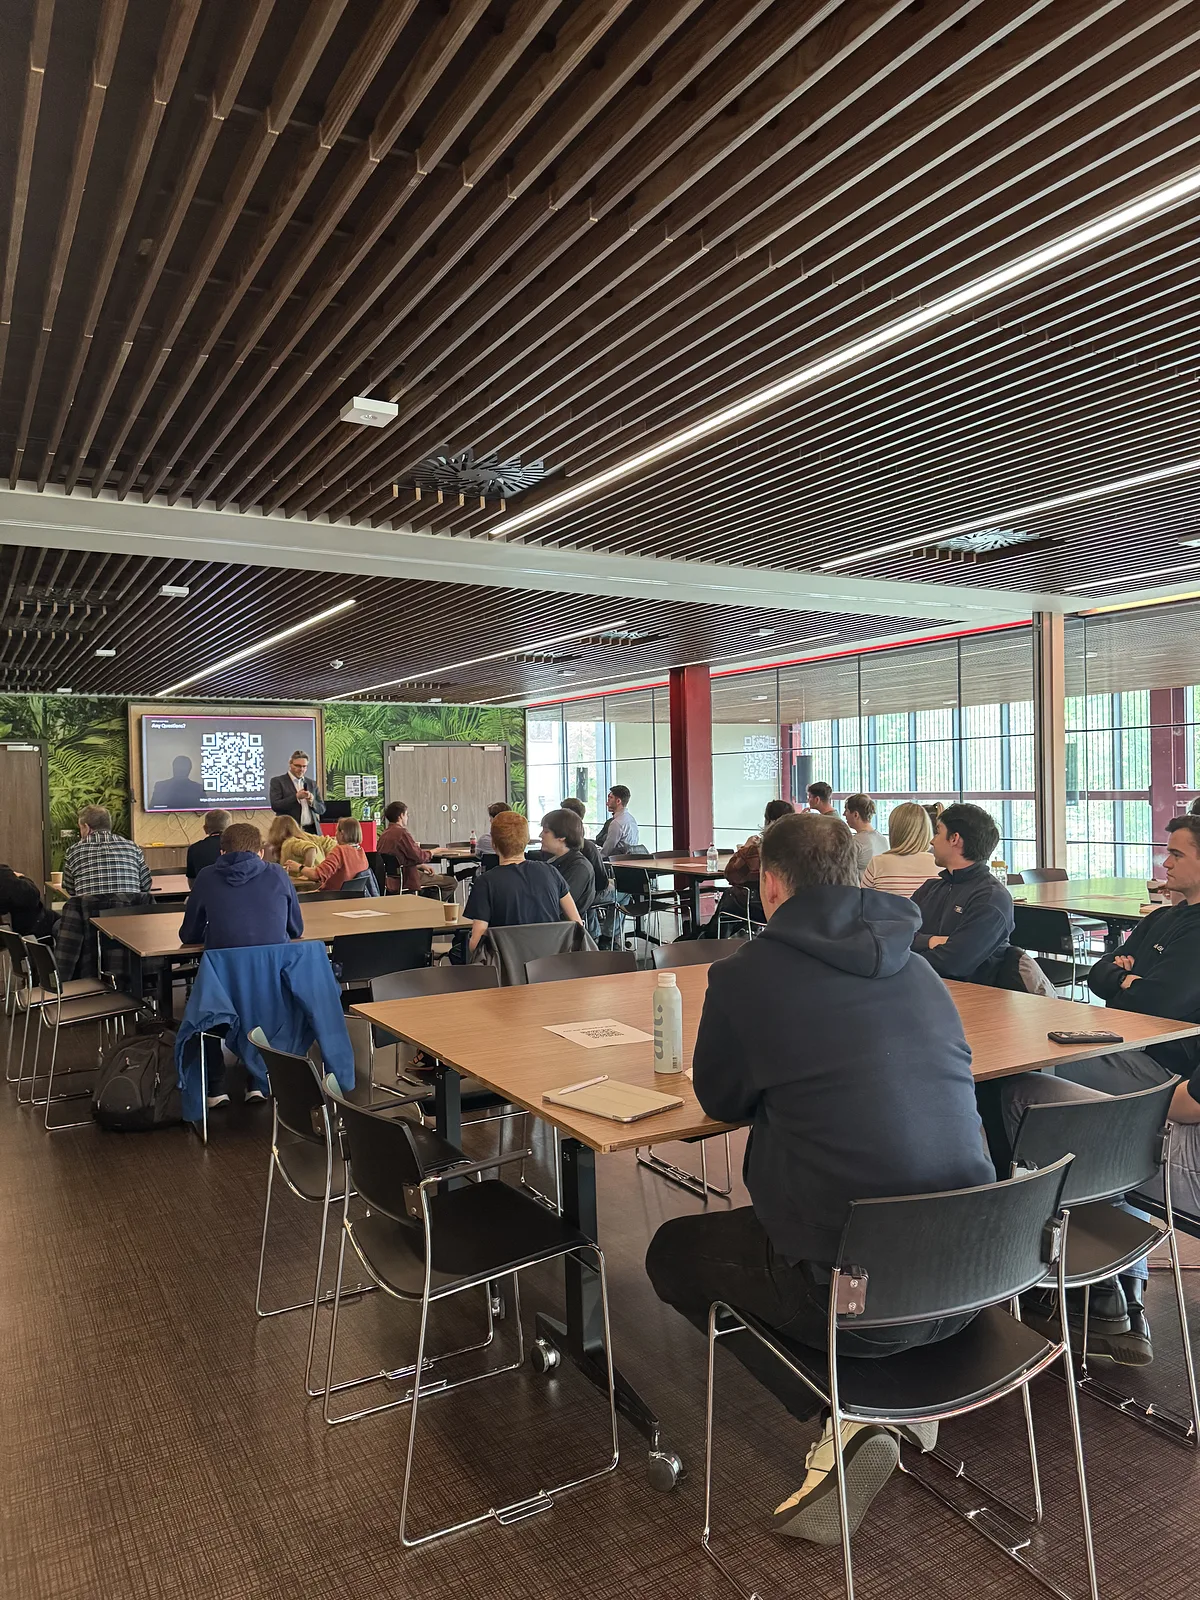
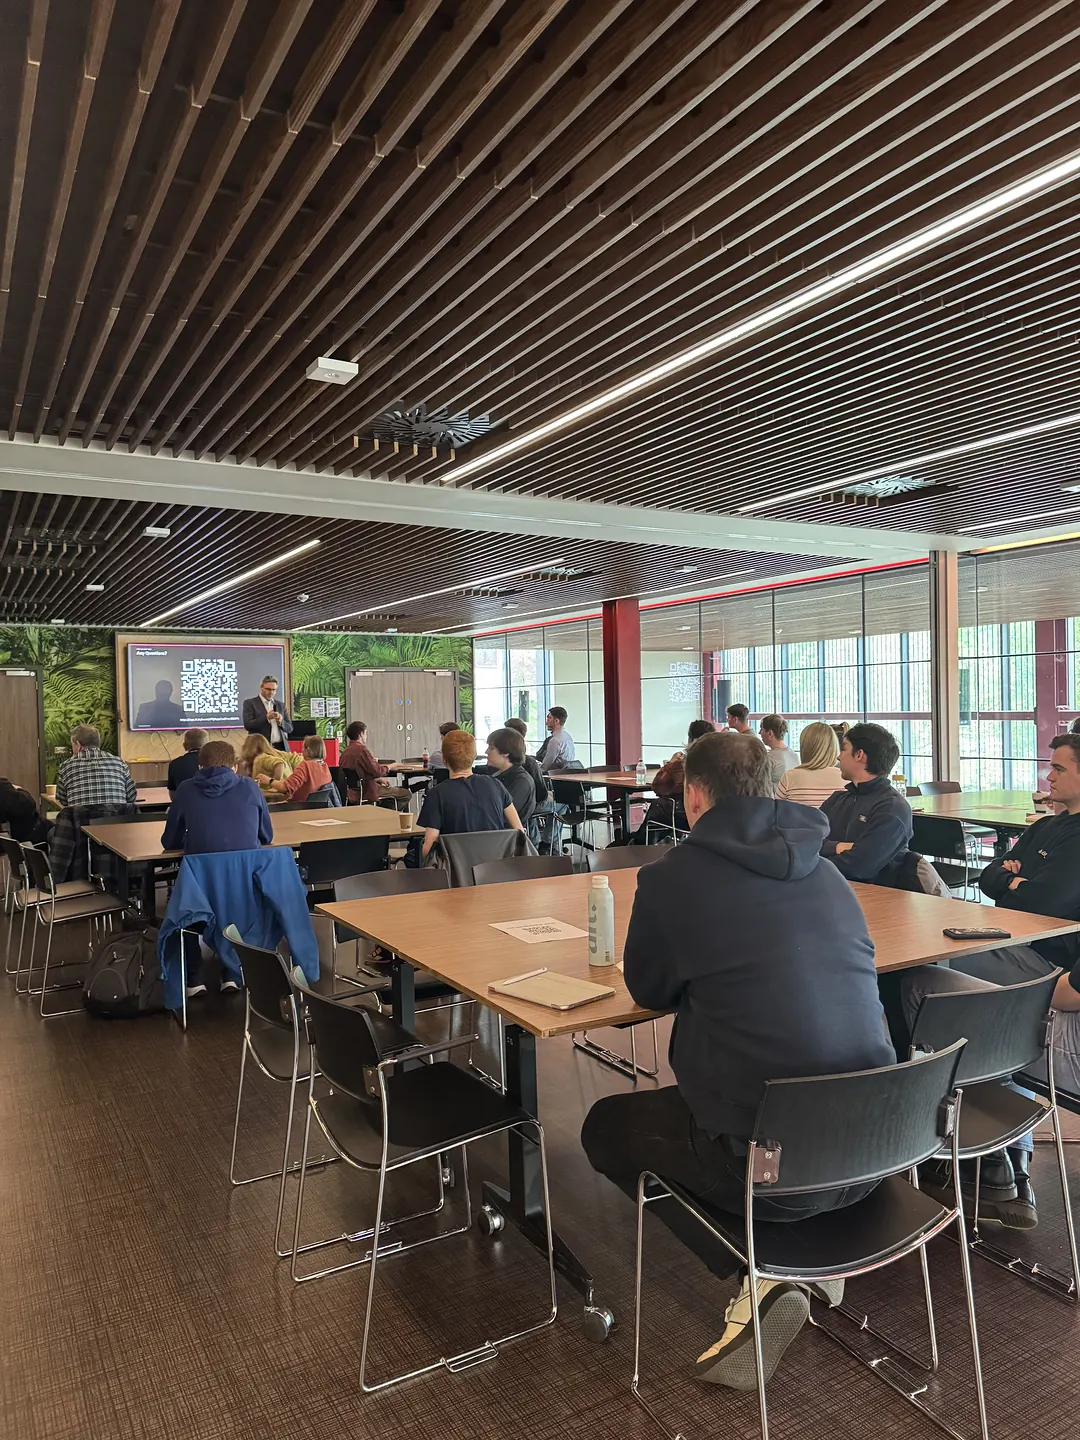
Reduce carousel image weight and tune resource priorities
Recompress recap photos at display-appropriate dimensions and webp
quality 78 (40% smaller, 1.98MB to 1.18MB total). Eagerly load all
four carousel images with fetchpriority=low on slides 2-4 so they
queue behind critical resources but are ready before the user clicks
through. Lazy-load the slides iframe so the PDF no longer competes
for bandwidth on initial page load.

diff --git a/index.html b/index.html
@@ -1169,16 +1169,16 @@
                 <div class="recap-carousel-viewport">
                     <div class="recap-carousel-track" data-carousel-track>
                         <div class="recap-carousel-slide" role="group" aria-roledescription="slide" aria-label="1 of 4">
-                            <img src="img/event-2026-05/recap-2.webp" alt="Wide view of the room as the first FASE NI event opens, speaker on the left and attendees seated around the room" loading="eager" width="1600" height="1200">
+                            <img src="img/event-2026-05/recap-2.webp" alt="Wide view of the room as the first FASE NI event opens, speaker on the left and attendees seated around the room" loading="eager" fetchpriority="high" decoding="async" width="1600" height="1200">
                         </div>
                         <div class="recap-carousel-slide" role="group" aria-roledescription="slide" aria-label="2 of 4">
-                            <img src="img/event-2026-05/recap-1.webp" alt="John Bustard speaking at the first FASE NI event in The Cube at Queen's Students' Union, Belfast" loading="lazy" width="2400" height="1800">
+                            <img src="img/event-2026-05/recap-1.webp" alt="John Bustard speaking at the first FASE NI event in The Cube at Queen's Students' Union, Belfast" loading="eager" fetchpriority="low" decoding="async" width="1920" height="1440">
                         </div>
                         <div class="recap-carousel-slide" role="group" aria-roledescription="slide" aria-label="3 of 4">
-                            <img src="img/event-2026-05/recap-3.webp" alt="Audience listening intently during the talk at the first FASE NI event" loading="lazy" width="1200" height="1600">
+                            <img src="img/event-2026-05/recap-3.webp" alt="Audience listening intently during the talk at the first FASE NI event" loading="eager" fetchpriority="low" decoding="async" width="1080" height="1440">
                         </div>
                         <div class="recap-carousel-slide" role="group" aria-roledescription="slide" aria-label="4 of 4">
-                            <img src="img/event-2026-05/recap-4.webp" alt="View from the back of the room of the audience watching the speaker at the first FASE NI event" loading="lazy" width="1200" height="1600">
+                            <img src="img/event-2026-05/recap-4.webp" alt="View from the back of the room of the audience watching the speaker at the first FASE NI event" loading="eager" fetchpriority="low" decoding="async" width="1080" height="1440">
                         </div>
                     </div>
                     <button class="recap-carousel-btn recap-carousel-prev" type="button" aria-label="Previous photo" data-carousel-prev>&lsaquo;</button>
@@ -1199,7 +1199,7 @@
                 <h3>Slides</h3>
                 <p>The slide deck from our first event.</p>
                 <div class="pdf-embed">
-                    <iframe src="slides/intro-to-fase-2026-05.pdf#view=FitH&amp;toolbar=1" title="Introduction to Fully Automated Software Engineering - slides"></iframe>
+                    <iframe src="slides/intro-to-fase-2026-05.pdf#view=FitH&amp;toolbar=1" title="Introduction to Fully Automated Software Engineering - slides" loading="lazy"></iframe>
                 </div>
                 <div class="recap-actions">
                     <a href="slides/intro-to-fase-2026-05.pdf" class="talk-cta" download>Download PDF &rarr;</a>
